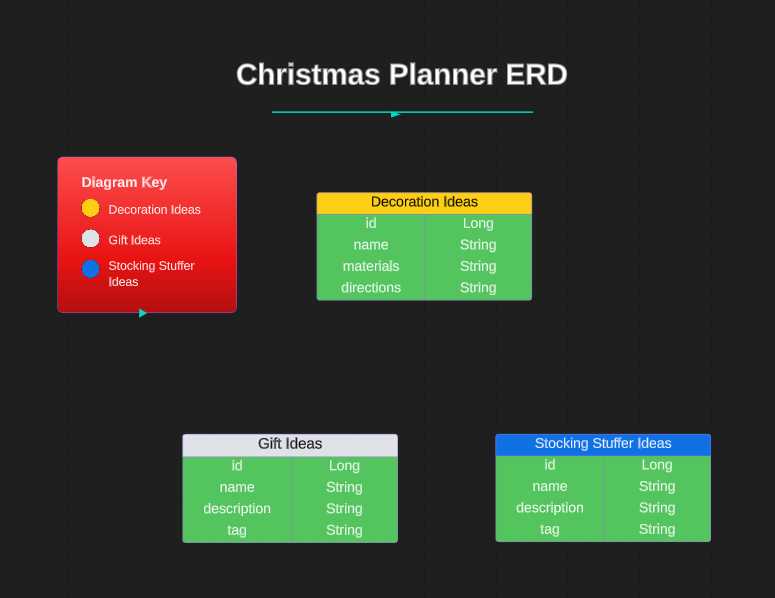
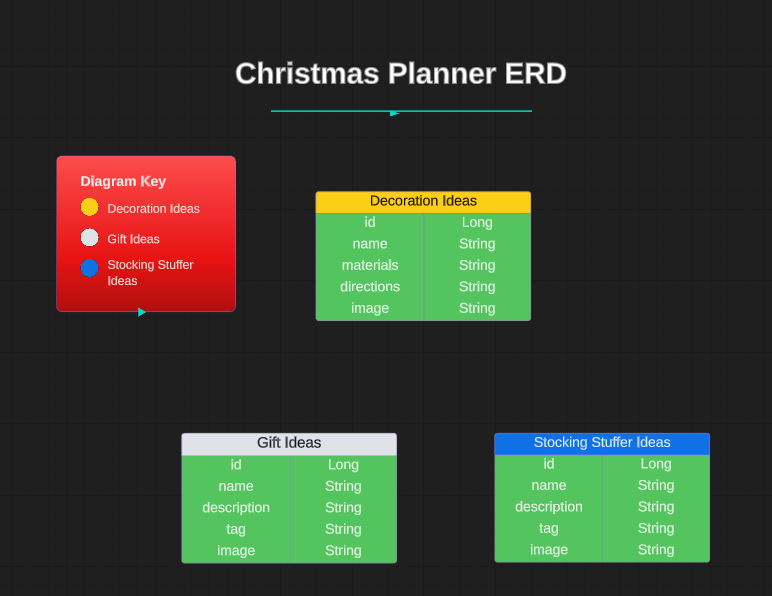
Update README

diff --git a/README.md b/README.md
@@ -1,6 +1,6 @@
 # Christmas Planner Front-End 
 
-A holiday planning application designed to allow users to find inspiration for DIY Christmas ornaments and decorations, as well as ideas for gifts and stocking stuffers. Users are able to search for, add, and edit different ideas for DIY decorations, gifts, and stocking stuffers as they plan for Christmas. 
+A holiday planning application designed to allow users to find inspiration for DIY Christmas ornaments and decorations, as well as ideas for gifts and stocking stuffers. Users are able to browse and add different ideas for DIY decorations, gifts, and stocking stuffers as they plan for Christmas. 
 
 ## Technologies Used
 
@@ -9,12 +9,6 @@ A holiday planning application designed to allow users to find inspiration for D
 * HTML 
 * CSS 
 * VS Code 
-* Java 17
-* Maven
-* Spring Boot
-* Spring Data (JPA) 
-* H2 Database
-* Postman
 
 
 
@@ -24,7 +18,7 @@ I started off by creating my user stories and acceptance criteria. This helped m
 
 For the final step of the planning phase, I created an ERD (entity relationship diagram) to plan my different models and their relevant attributes. This helped me to visualize their individual tables and corresponding attributes in the database. 
 
-Then, I built the back-end of the app, using Java, the Spring framework, and H2 Database to create a REST API. Finally, I did my API testing using MockMVC before moving on to create the front-end of the app. 
+Then, I built the back-end of the app, using Java, the Spring framework, and H2 Database to create a REST API. Finally, I did my API testing using MockMVC before moving on to create the front-end of the app. After creating a new Angular app for the front-end, I created my components, routes, and services, and connected the front-end to the back-end, before circling back to work on the styling.  
 
 
 
@@ -41,15 +35,12 @@ Then, I built the back-end of the app, using Java, the Spring framework, and H2 
 | POST      | /api/decorations/             | Create a decoration idea             | Public   |
 | GET       | /api/decorations/             | Get all decoration ideas             | Public   |
 | GET       | /api/decorations/1/           | Get a decoration idea                | Public   |
-| PUT       | /api/decorations/1/           | Update a decoration idea             | Public   |
 | POST      | /api/gifts/                   | Create a gift idea                   | Public   |
 | GET       | /api/gifts/                   | Get all gift ideas                   | Public   |
 | GET       | /api/gifts/1/                 | Get a gift idea                      | Public   |
-| PUT       | /api/gifts/1/                 | Update a gift idea                   | Public   |
 | POST      | /api/stockingstuffers/        | Creating a stocking stuffer idea     | Public   |
 | GET       | /api/stockingstuffers/        | Get all stocking stuffer ideas       | Public   |
 | GET       | /api/stockingstuffers/1/      | Get a stocking stuffer idea          | Public   |
-| PUT       | /api/stockingstuffers/1/      | Update a stocking stuffer idea       | Public   |
 
 
 
@@ -71,8 +62,7 @@ As a user I want to view a specific Christmas decorating idea so that I can foll
 
 <b>Acceptance Criteria:</b>
 <br>
-* User can filter search results by Christmas decorating ideas.
-* Search results should return an exact match to the user's search criteria.
+* User can click a link from the main page of search results that will bring them to a page with that specific decoration. 
 
 
 <b>User Story 3:</b>
@@ -81,21 +71,11 @@ As a user I want to add a new Christmas decorating idea so that I can share my d
 
 <b>Acceptance Criteria:</b>
 <br>
-* User can add new Christmas decorating ideas, specifying the name, materials needed, and directions. 
+* User can add new Christmas decorating ideas, specifying the name, materials needed, directions, and the URL of an image showing the finished product. 
 * User can save the Christmas decorating idea to the overall list of Christmas decorating inspiration.
 
 
 <b>User Story 4:</b>
-<br>
-As a user I want to update/edit the details of a Christmas decorating idea, including the name, materials needed, and directions. (PUT Christmas decorating idea)
-
-<b>Acceptance Criteria:</b>
-<br>
-* User can edit/update Christmas decorating ideas. 
-* User can save the updated information for specific Christmas decorating ideas.
-
-
-<b>User Story 5:</b>
 <br>
 As a user I want to view a list of all gift ideas for inspiration for my Christmas shopping. (GET all gift ideas)
 
@@ -105,38 +85,27 @@ As a user I want to view a list of all gift ideas for inspiration for my Christm
 * Search results should display a list of all gift ideas.
 
 
-<b>User Story 6:</b>
+<b>User Story 5:</b>
 <br>
 As a user I want to view a specific gift idea for inspiration for my Christmas shopping. (GET gift idea by id)
 
 <b>Acceptance Criteria:</b>
 <br>
-* User can filter search results for gift ideas. 
-* Search results should return an exact match to the user's search criteria.
+* User can click a link from the main page of search results that will bring them to a page with that specific gift. 
 
 
-<b>User Story 7:</b>
+<b>User Story 6:</b>
 <br>
 As a user I want to add a new gift idea so that I can share my gift ideas with other users. (POST gift idea)
 
 <b>Acceptance Criteria:</b>
 <br>
 
-* User can add new gift ideas, specifying the name and description. 
+* User can add new gift ideas, specifying the name, description, and the URL of an image showing the finished product. 
 * User can save the gift idea to the overall list of gift ideas for inspiration.
 
 
-<b>User Story 8:</b>
-<br>
-As a user I want to update/edit the details of a gift idea, including the name and description. (PUT gift idea)
-
-<b>Acceptance Criteria:</b>
-<br>
-* User can edit/update gift ideas. 
-* User can save the updated information for specific gift ideas.
-
-
-<b>User Story 9:</b>
+<b>User Story 7:</b>
 <br>
 As a user I want to view a list of all the stocking stuffer ideas for inspiration for my Christmas shopping. (GET all stocking stuffer ideas)
 
@@ -146,40 +115,35 @@ As a user I want to view a list of all the stocking stuffer ideas for inspiratio
 * Search results should display a list of all stocking stuffer ideas.
 
 
-<b>User Story 10:</b>
+<b>User Story 8:</b>
 <br>
 As a user I want to view a specific stocking stuffer idea for inspiration for my Christmas shopping. (GET stocking stuffer idea by id)
 
 <b>Acceptance Criteria:</b>
 <br>
-* User can filter search results for stocking stuffer ideas. 
-* Search results should return an exact match to the user's search criteria.
+* User can click a link from the main page of search results that will bring them to a page with that specific stocking stuffer. 
 
 
-<b>User Story 11:</b>
+<b>User Story 9:</b>
 <br>
 As a user I want to add a new stocking stuffer idea so that I can share my stocking stuffer ideas with other users. (POST stocking stuffer idea)
 
 <b>Acceptance Criteria:</b>
 <br>
-* User can add new stocking stuffer ideas, specifying the name and description. 
+* User can add new stocking stuffer ideas, specifying the name, description, and the URL of an image showing the finished product.
 * User can save the stocking stuffer idea to the overall list of stocking stuffer ideas for inspiration.
-
-
-<b>User Story 12:</b>
-<br>
-As a user I want to update/edit the details of a stocking stuffer idea, including the name and description. (PUT stocking stuffer idea)
-
-<b>Acceptance Criteria:</b>
-<br>
-* User can edit/update stocking stuffer ideas. 
-* User can save the updated information for specific stocking stuffer ideas.
 
 
 
 ## Major Hurdles
 
-The biggest hurdle was figuring out how to link the front-end (Angular) to the back-end (Java/Spring). 
+The biggest hurdle was figuring out how to link the front-end (Angular) to the back-end (Java/Spring). I had routing issues on the front-end with all of my endpoints, which I was surprised by. Before starting this project, I thought that since the logic was already written on the back-end, that I wouldn't really have to do much on the front-end besides styling the pages and pointing towards the API on the back-end. Although the routing issues were definitely a major hurdle for me during this project, I was thankfully able to conquer them with some help from my instructors, Suresh and Leo, whom I've credited in my "Special Thanks" section below.  
+
+
+
+## Post MVP 
+
+I plan on continuing to work on this project in the future so that I can implement a PUT method for users to update existing data, as well as a search bar to filter the results for the gift and stocking stuffer models, depending on whether they are tagged as gift or stocking stuffer ideas for 'men', 'women', or 'children'/'kids'. I do intend on implementing these features in the near future so that I can see my vision truly realized. 
 
 
 
@@ -198,7 +162,7 @@ The biggest hurdle was figuring out how to link the front-end (Angular) to the b
 
 ### Special Thanks
 
-* Leonardo Rodriguez - my instructor who taught me all the concepts used to build the front-end of this project, including HTML, CSS, TypeScript, and Angular. [GitHub](https://github.com/LRodriguez92) 
+* Leonardo Rodriguez - my instructor who not only taught me all the concepts used to build the front-end of this project (including HTML, CSS, TypeScript, and Angular), but also helped me conquer the issues with routing, which turned out to be a major hurdle for me in this project. He helped me spot several errors that were keeping my code from working as intended and helped write the solution to work around the routing issues for the GET and POST methods. [GitHub](https://github.com/LRodriguez92) 
 
 * Suresh Sigera - my instructor who taught me all the concepts used to build the back-end of this project, including Java, the Spring framework, and API testing tools such as Postman, MockMVC, and REST-Assured / Cucumber. [GitHub](https://github.com/sureshmelvinsigera)
 
